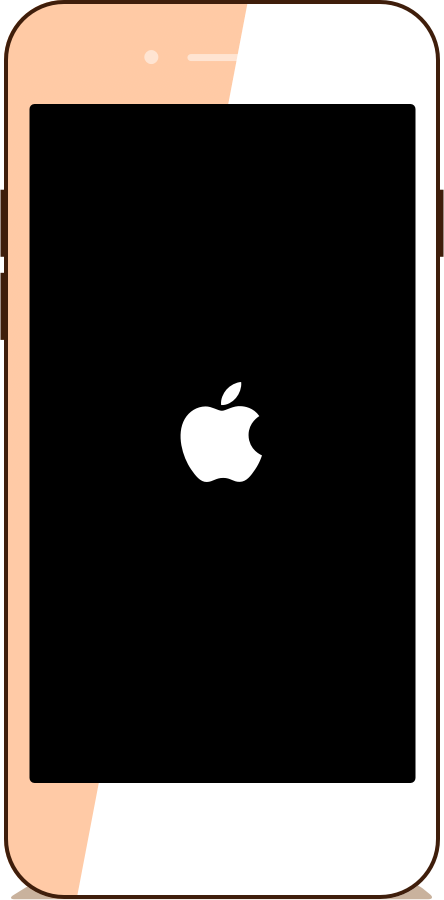
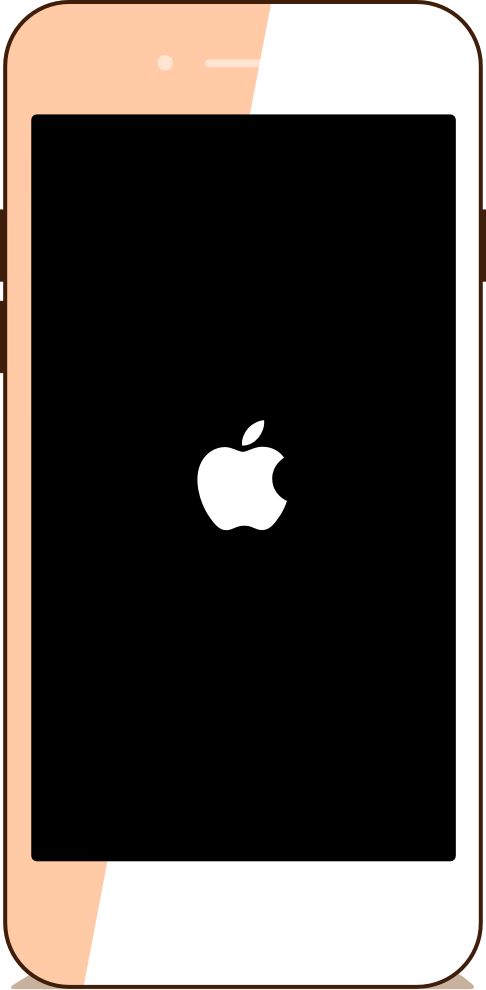
bigger phone and css

diff --git a/main.css b/main.css
@@ -49,12 +49,12 @@ body {
 }
 
 .hn-first-stripe {
-    top: 200px;
+    top: 190px;
     width: 75%;
 }
 
 .hn-second-stripe {
-    top: 235px;
+    top: 225px;
     width: 84%;
 }
 
@@ -68,12 +68,12 @@ body {
 }
 
 .hn-first-stripe-angle {
-    top: 200px;
+    top: 190px;
     left: 75%;
 }
 
 .hn-second-stripe-angle {
-    top: 235px;
+    top: 225px;
     left: 84%;
 }
 
@@ -108,28 +108,30 @@ body {
 }
 
 .hn-iphone {
-    width: 220px;
-    height: 450px;
+    width: 242px;
+    height: 495px;
     background-image: url("images/iphone.png");
-    background-size: 220px 450px;
+    background-size: 242px 495px;
     background-repeat: no-repeat;
+    position: relative;
+    top: -10px;
 }
 
 .hn-screen {
-    width: 188px;
-    height: 336px;
+    width: 206px;
+    height: 370px;
     background-image: url("images/front.png");
     background-repeat: no-repeat;
-    background-size: 188px 336px;
+    background-size: 206px 370px;
     position: relative;
-    top: 54px;
-    left: 16px;
+    top: 58px;
+    left: 18px;
 }
 
 .hn-container {
-    width: 640px;
+    width: 700px;
     padding: 40px 0 0 40px;
-    margin: 100px auto;
+    margin: 80px auto;
 }
 
 .hn-copy h1 {
@@ -137,7 +139,7 @@ body {
     color: #FFF;
     font-weight: 300;
     margin-bottom: 18px;
-    padding-top: 100px;
+    padding-top: 108px;
 }
 
 .hn-copy p {
